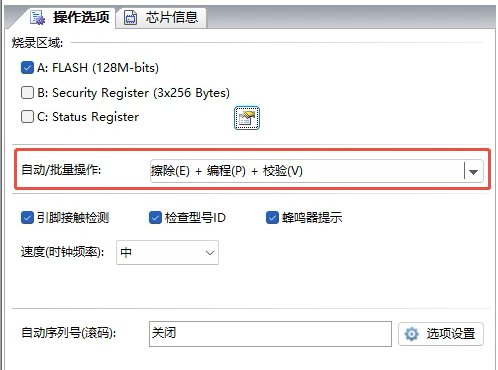
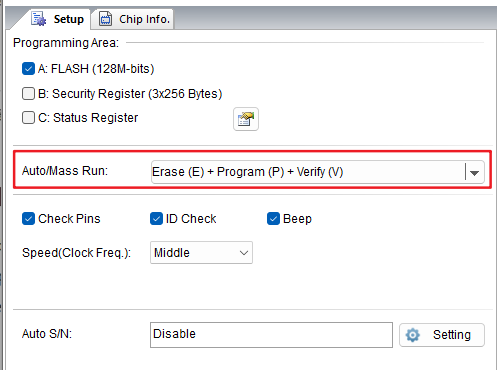
docs: add Titan boot firmware download link

diff --git a/docs/titan/getting-started/firmware.md b/docs/titan/getting-started/firmware.md
@@ -35,6 +35,8 @@ The following programmer, socket adapter, and software are the reference combina
 | Firmware file | A boot firmware `.bin` file compatible with Titan |
 | Other tools | A computer running the programming software and tweezers to open the onboard socket |
 
+Boot firmware download: [Titan Firmware](https://github.com/milkv-titan/titan-firmware/releases).
+
 Check the firmware file's source, version, and size before proceeding. Boot firmware, SSD operating system images, and BMC firmware serve different purposes. Use the boot firmware file intended for this procedure.
 
 :::warning
